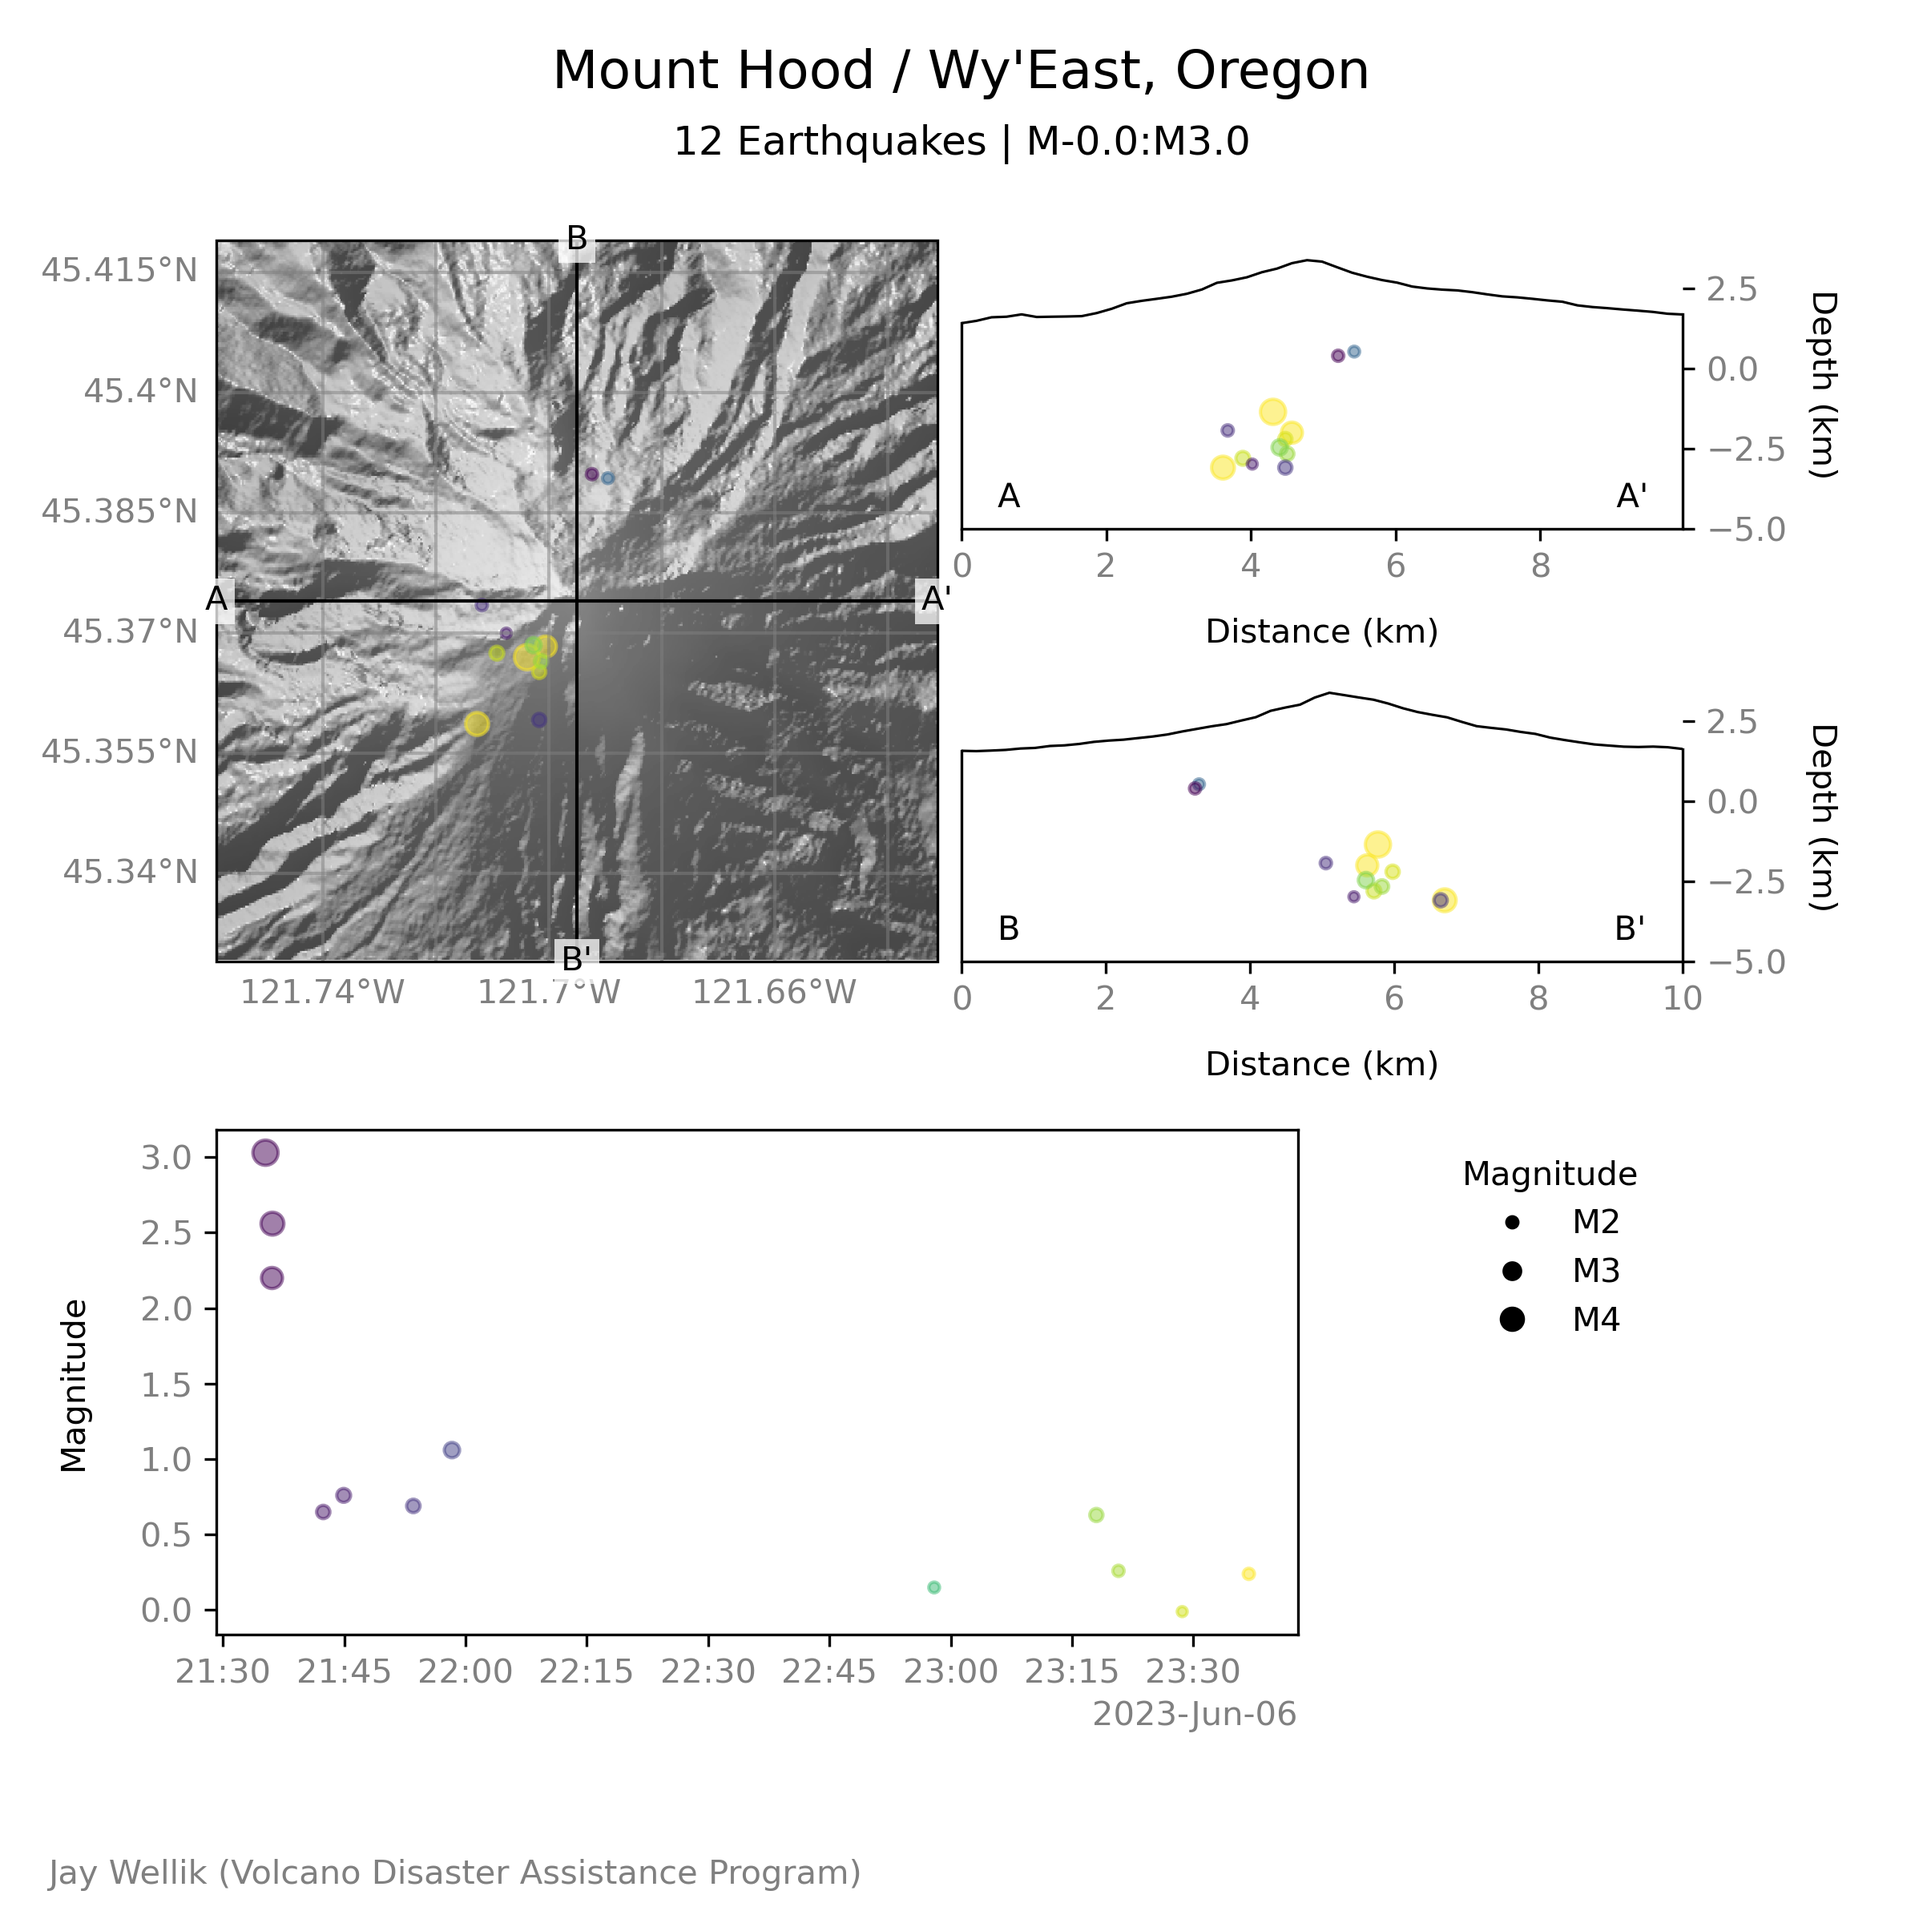
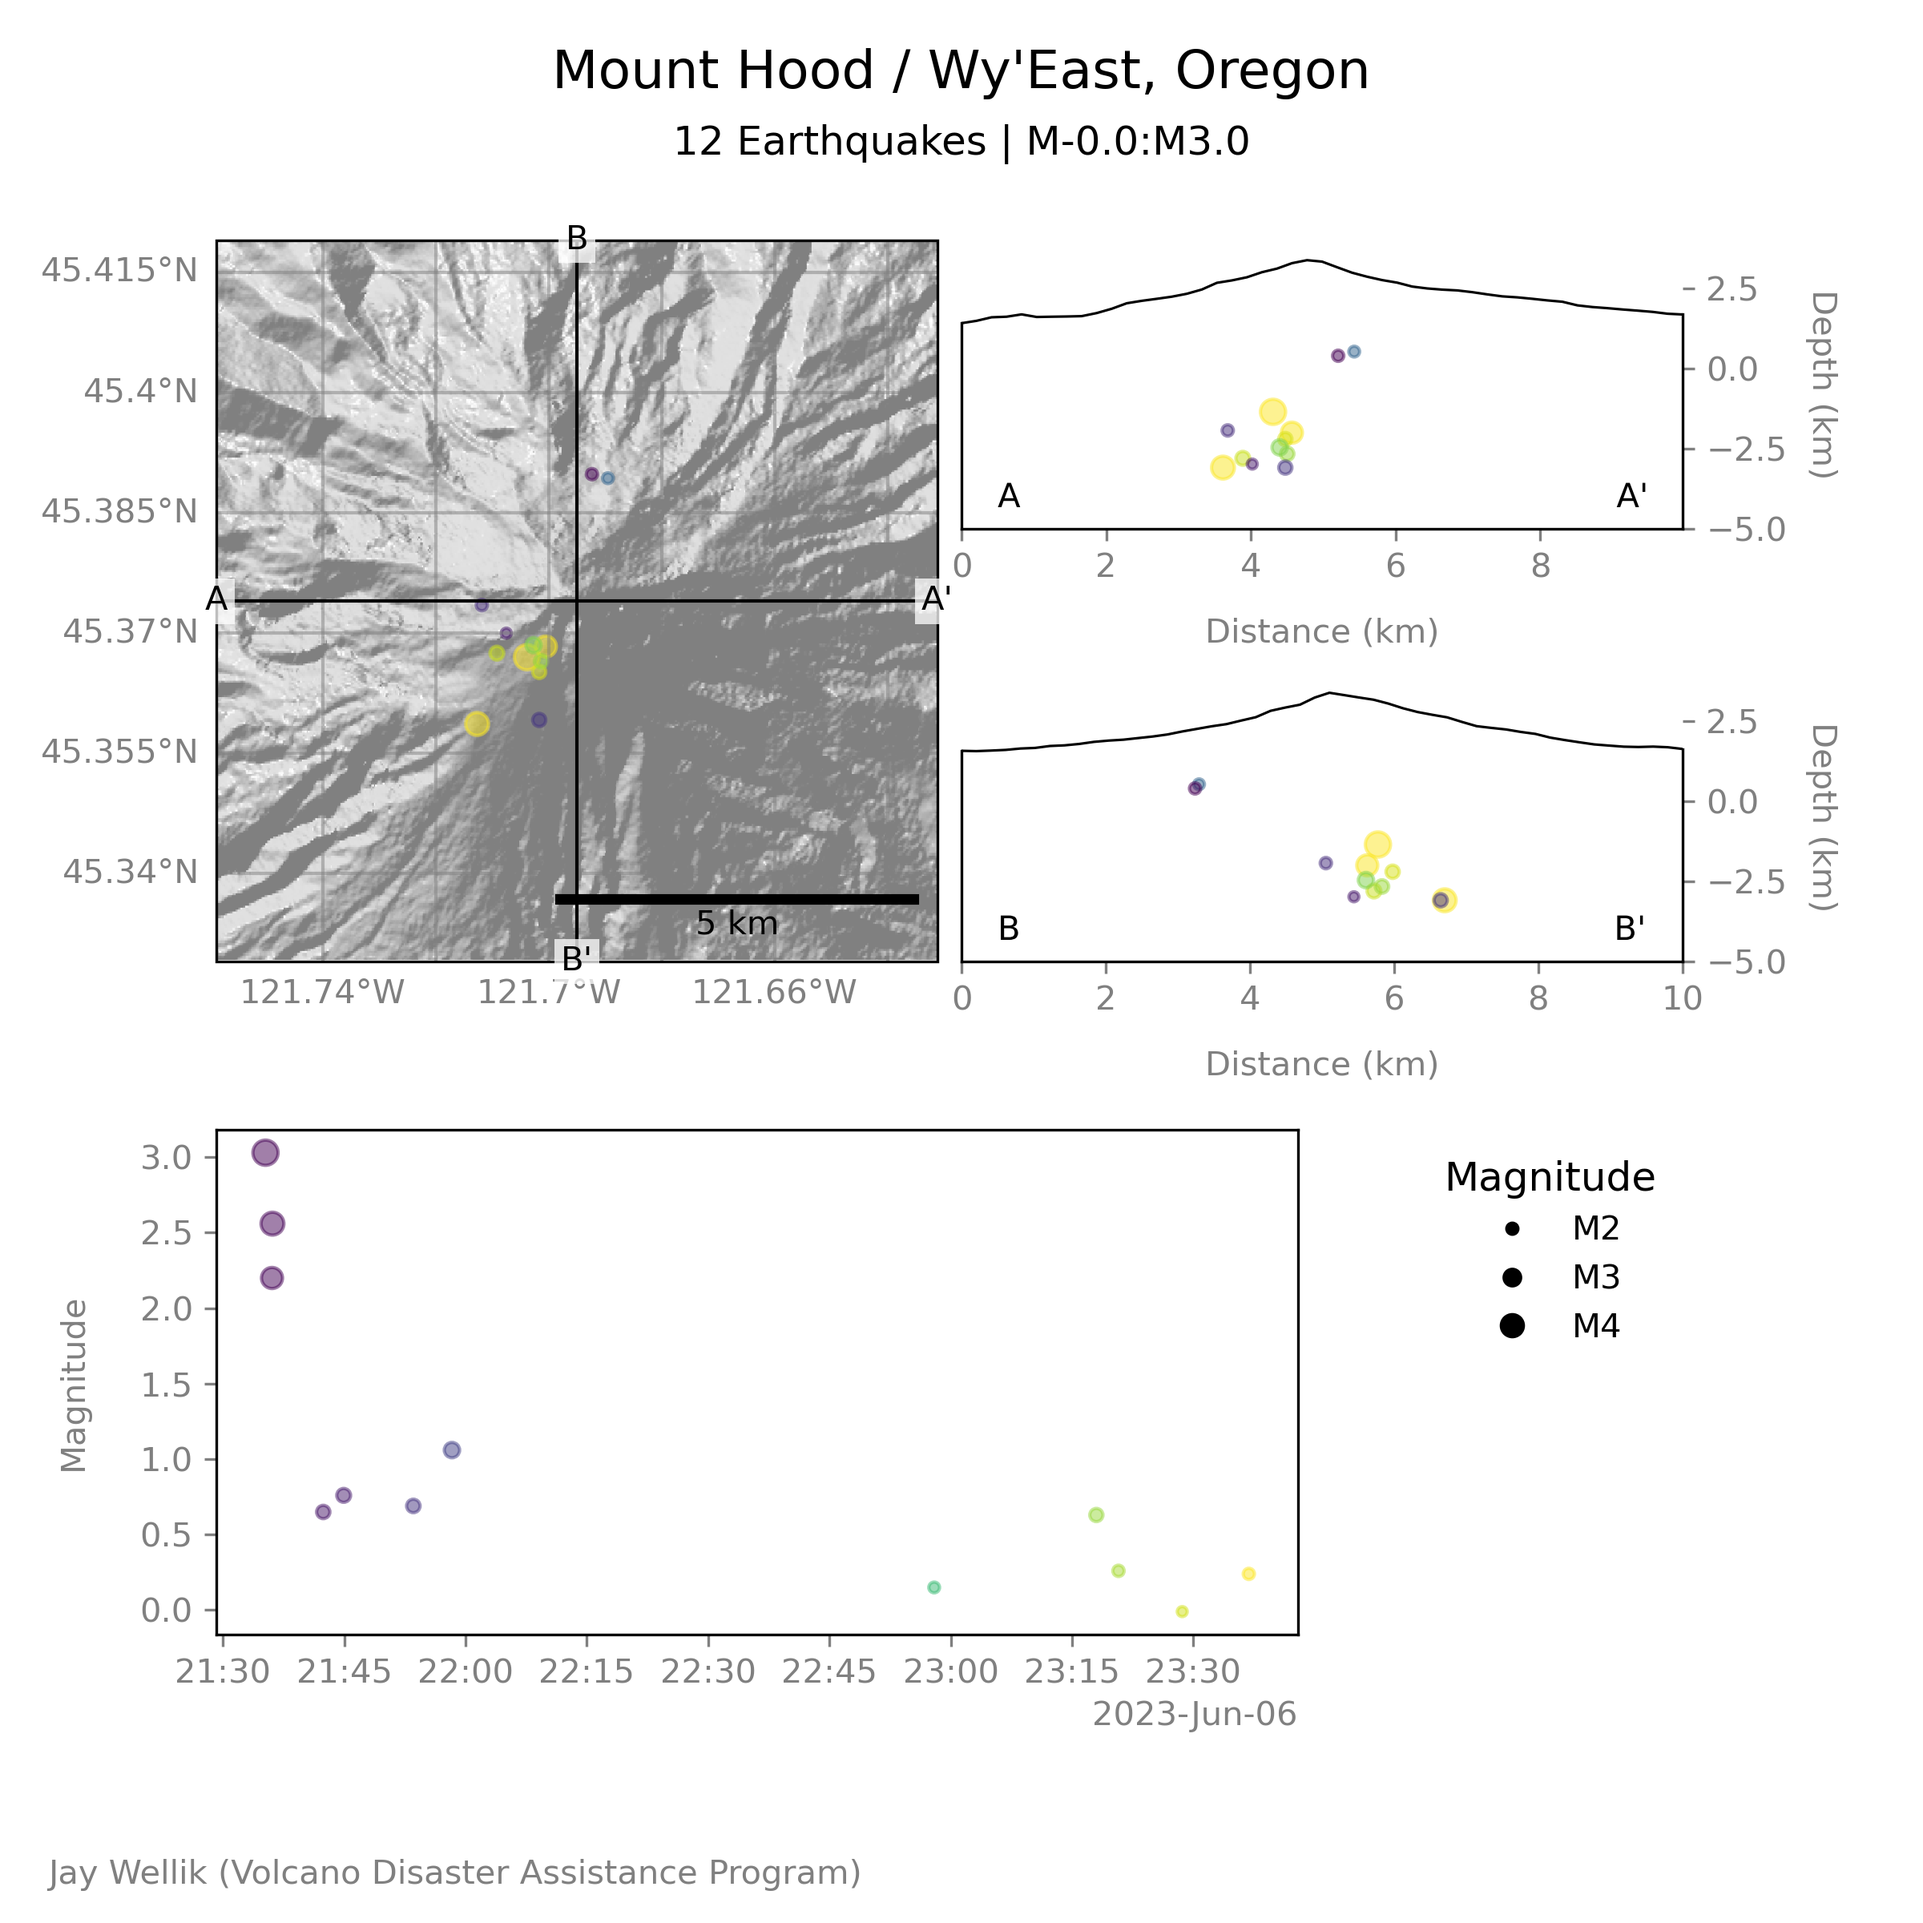
Add scalebar; fix Kilauea example fig size

diff --git a/vdapseisutils/core/maps/maps.py b/vdapseisutils/core/maps/maps.py
@@ -100,8 +100,6 @@ def add_hillshade_pygmt(ax, extent=[-180, 180, -90, 90],
     PyGMT's load_earth_relief(): https://www.pygmt.org/dev/api/generated/pygmt.datasets.load_earth_relief.html
     """
 
-    print("Make hillshade with vertical exaggeration...")
-
     import numpy as np
     import pygmt
 
@@ -146,6 +144,31 @@ def add_hillshade_pygmt(ax, extent=[-180, 180, -90, 90],
     ax.imshow(np.rot90(grid_final), extent=extent, transform=projection, cmap=cmap, alpha=alpha)
 
     return ax
+
+# Function to convert real-world distance to map units
+def get_scale_length(origin, distance_km):
+    """
+    Convert real-world distance in km to degrees at a given latitude.
+    Uses the WGS84 ellipsoid for accuracy.
+    """
+    from pyproj import Geod
+
+    lat, lon = origin
+    geod = Geod(ellps="WGS84")
+    end_lon, end_lat, _ = geod.fwd(lon, lat, 90, distance_km * 1000)  # Move eastward
+    return abs(end_lon - lon)  # Return the degree difference
+
+
+def choose_scale_bar_length(map_width_km, fraction=0.3):
+    """
+    Given the width of the map in km, return the scale bar length (in km) as the value
+    from ALLOWED_SCALES that is closest to fraction * map_width_km.
+    """
+    candidate = map_width_km * fraction
+    # Choose the allowed scale that minimizes the absolute difference from candidate.
+    ALLOWED_SCALES = [1, 5, 10, 20, 50, 100, 150, 200, 250, 500, 750, 1000, 5000, 10000]
+    scale = min(ALLOWED_SCALES, key=lambda x: abs(x - candidate))
+    return scale
 
 
 ##############################################################################################################s
@@ -416,6 +439,41 @@ class Map(plt.Figure):
         ax.gridlines()
         fig_loc.set_alpha(0.0)
         ax.set_alpha(0.0)
+
+    def add_scalebar(self, scale_length_km="auto"):
+        """ADD_SCALEBAR Uses Matplotlib's AnchoredSizeBar to make a scale bar in km
+        https://matplotlib.org/stable/api/_as_gen/mpl_toolkits.axes_grid1.anchored_artists.AnchoredSizeBar.html#
+
+        Scale bar length will be determined automatically if a length is not provided.
+        """
+
+        from mpl_toolkits.axes_grid1.anchored_artists import AnchoredSizeBar
+        import matplotlib.font_manager as fm
+        from vdapseisutils.utils.geoutils import backazimuth
+
+        # Get scalebar length in axes percentage
+        map_lonL, map_lonR, map_midlat = self.properties["map_extent"][0:3]
+        az, d = backazimuth((map_midlat, map_lonL), (map_midlat, map_lonR))  # azimuth & map width (meters)
+        map_width_km = d / 1000
+        if scale_length_km == "auto":
+            scale_length_km = choose_scale_bar_length(map_width_km, 0.30)  # auto determine scale bar km
+        scale_bar_length_ax = scale_length_km / map_width_km
+
+        # Add scale bar
+        scalebar = AnchoredSizeBar(self.figure.axes[0].transAxes,  # Define length as % of axis width
+                                   scale_bar_length_ax,  # Length in map units (degrees)
+                                   f"{scale_length_km} km",  # Label
+                                   'lower right',
+                                   pad=0.5,
+                                   color='black',
+                                   frameon=False,
+                                   size_vertical=0.01,  # Thickness of scale bar (as % of axis height)
+                                   fontproperties=fm.FontProperties(size=10))
+
+        self.figure.axes[0].add_artist(scalebar)
+
+        print("Done.")
+
 
     def plot(self, lat, lon, *args, transform=ccrs.Geodetic()):
         self.ax.plot(lon, lat, *args, transform=transform)
@@ -852,6 +910,7 @@ class VolcanoFigure(plt.Figure):
         self.fig_m = fig.add_subfigure(spec[0:1, 0:1])
         self.fig_m = Map(fig=self.fig_m, origin=origin, radial_extent_km=radial_extent_km)
         self.fig_m.add_hillshade()
+        self.fig_m.add_scalebar()
         lbwh = np.array([0.9, 4.0, 3.0, 3.0])
         self.fig_m.ax.set_position(lbwh / figscale)
 

diff --git a/gallery/Mapping_tutorial.py b/gallery/Mapping_tutorial.py
@@ -67,15 +67,17 @@ def map_usvolcs():
     print(">> Raininer")
     fig = Map(origin=(rainier["coords"][0], rainier["coords"][1]), radial_extent_km=15.0)
     fig.add_hillshade(resolution="01s")
+    fig.add_scalebar()
     fig.suptitle("Rainier, Washington")
     fig.info()
     fig.savefig("./output/Mapping_tutorial/Map_Rainier.png")
     plt.show()
 
     print(">> Kīlauea")
-    fig2 = plt.figure(figsize=(8, 4))
+    fig2 = plt.figure(figsize=(8, 4), dpi=300)
     fig2 = Map(map_extent=kilauea["map_extent"], fig=fig2)
     fig2.add_hillshade()
+    fig2.add_scalebar()
     fig2.plot_catalog(cat_kilauea)
     fig2.suptitle("Kīlauea")
     fig2.info()
@@ -231,22 +233,24 @@ def bathymetry_map_xsection():
     volc = banua_wuhu
 
     # Banua Wuhu
-    fig = plt.figure(figsize=(16/2, 12/2))  # width, height
+    fig = plt.figure(figsize=(16/2, 12/2), dpi=300)  # width, height
     spec = fig.add_gridspec(8, 8)  # rows, columns (height, width)
     fig_m = fig.add_subfigure(spec[0:8, 0:8])  #
     fig_m = Map(map_extent=[125.239416, 125.717357, 2.998957, 3.344241], fig=fig_m)
     fig_m.add_hillshade(resolution="01s", topo=True, bath=False)
+    fig_m.add_scalebar()
     fig_m.plot(volc["coords"][0], volc["coords"][1], "^r")
     plt.savefig("./output/Mapping_tutorial/Bathymetry_BanuaWuhu.png")
     plt.show()
 
     # Regional Map
-    fig = plt.figure(figsize=(16/2, 12/2))  # width, height
+    fig = plt.figure(figsize=(16/2, 12/2), dpi=300)  # width, height
     spec = fig.add_gridspec(8, 8)  # rows, columns (height, width)
     fig_m = fig.add_subfigure(spec[0:8, 0:8], zorder=0)  #
     fig_m = Map(map_extent=volc["map_extent"], fig=fig_m)
     fig_m.add_locationmap(volc["coords"][0], volc["coords"][1])
     fig_m.add_hillshade(resolution="15s")
+    fig_m.add_scalebar()
     fig_m.plot(volc["coords"][0], volc["coords"][1], "^r")
     [fig_m.plot(p[0][0], p[0][1], "ok") for p in volc["points"]]
     plt.savefig("./output/Mapping_tutorial/Bathymetry_BanuaWuhu_regional.png")
@@ -280,8 +284,8 @@ def bathymetry_map_xsection():
 if __name__ == '__main__':
     print('#'*80)
     map_usvolcs()
-    xsection_usvolcs()
-    timeseries_msas_swarm()
+    # xsection_usvolcs()
+    # timeseries_msas_swarm()
     volcano_figure()
     bathymetry_map_xsection()
     print("#"*80)
